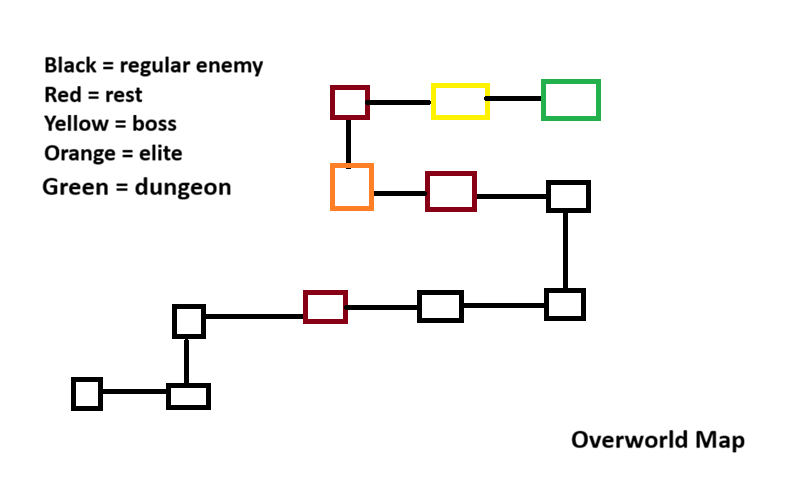
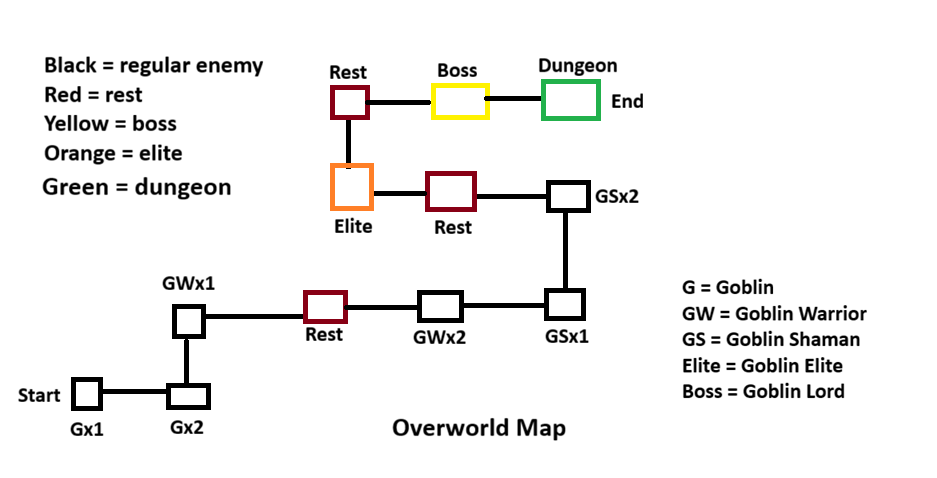
updated docs and res

diff --git a/docs/m10/m10 leveling.md b/docs/m10/m10 leveling.md
@@ -1,0 +1,218 @@
+Yes. I would lock Dungeon Drifters to an **absolute character level cap of 250** and build the XP curve around that.
+
+The reason is literal:
+
+```text
+6 stats × 100 maximum = 600 total stat points
+Level 1 Drifters begin with 60 total stat points
+600 − 60 = 540 Growth Points needed to max every stat
+```
+
+The repository enforces that every Level 1 archetype starts with exactly 60 total permanent stats, and each permanent stat is capped at 100.
+
+At three Growth Points per level:
+
+```text
+Level 250 provides 249 level-ups
+249 × 3 = 747 total Growth Points
+
+747 total
+− 540 for all six stats
+= 207 Growth Points for the complete growth tree
+```
+
+That gives us an exact completionist structure:
+
+```text
+Level 250
+= every stat at 100
++ every authored growth-tree node purchased
+```
+
+The tree for each Drifter should therefore have an exact total purchase cost of **207 Growth Points**. The existing economy already establishes one point for a permanent stat, two for a passive rank, and three for a new move. Augments can use the same one-to-three-point hierarchy according to strength.
+
+# Dungeon Drifters XP formula
+
+Replace the current linear `100 × level` threshold with this Elden Ring-inspired curve:
+
+```text
+ramp = max(0, current_level − 10)
+
+XP required for next level =
+floor(
+    20 × (ramp + 5) × (current_level + 30)²
+    ÷ 961
+)
+```
+
+The `961` normalizes Level 1 exactly because:
+
+```text
+31² = 961
+```
+
+So Level 1 → 2 costs exactly **100 XP**.
+
+This gives us:
+
+* a very gentle opening
+* noticeable acceleration after Level 10
+* strong endgame scaling
+* an extremely expensive completionist back half
+* integer-only deterministic math
+
+The current code already supports carryover and gaining multiple levels from one award, but it presently has no maximum-level enforcement.
+
+## Exact curve milestones
+
+| Current level | XP for next level | Total XP spent to reach level |
+| ------------: | ----------------: | ----------------------------: |
+|             1 |               100 |                             0 |
+|            10 |               166 |                         1,150 |
+|            25 |             1,259 |                        10,035 |
+|            50 |             5,993 |                        89,252 |
+|            75 |            16,061 |                       346,774 |
+|           100 |            33,413 |                       939,335 |
+|           125 |            60,000 |                     2,072,458 |
+|           150 |            97,773 |                     4,000,425 |
+|           175 |           148,683 |                     7,026,312 |
+|           200 |           214,682 |                    11,501,965 |
+|           225 |           297,721 |                    17,828,010 |
+|     249 → 250 |           395,280 |                    26,058,564 |
+
+The absolute total from Level 1 to Level 250 is:
+
+```text
+26,453,844 XP
+```
+
+Like Elden Ring, the back half carries most of the weight:
+
+```text
+Level 1 → 100:
+939,335 XP
+3.6% of the absolute total
+
+Level 150 → 250:
+22,453,419 XP
+84.9% of the absolute total
+
+Level 200 → 250:
+14,951,879 XP
+56.5% of the absolute total
+```
+
+So reaching a healthy endgame build is realistic, while maxing absolutely everything remains a major completionist undertaking.
+
+# Intended progression bands
+
+```text
+Levels 1–10
+Opening campaign and first dungeon entry
+
+Levels 11–50
+Foundation and early build identity
+
+Levels 51–100
+Mature main-game build
+
+Levels 101–150
+Endgame specialization
+
+Levels 151–200
+Postgame and New Game+
+
+Levels 201–250
+Extreme mastery and completionist progression
+```
+
+The expected practical build range can remain far below the absolute cap. Level 250 exists so the player can eventually master everything, not because the main campaign should require it.
+
+# Growth Points by level
+
+| Level | Total Growth Points earned |
+| ----: | -------------------------: |
+|    10 |                         27 |
+|    25 |                         72 |
+|    50 |                        147 |
+|   100 |                        297 |
+|   150 |                        447 |
+|   200 |                        597 |
+|   250 |                        747 |
+
+Each level should continue granting the authored:
+
+```text
++4 maximum HP
++1 maximum Mana
+3 Growth Points
+```
+
+When maximum HP or Mana rises, current HP or Mana should rise by the same delta rather than fully refill. That preserves the amount already missing.
+
+# M10 surface-route XP
+
+For M10, surface-route EXP should become secured immediately after complete encounter victory. The future unsecured-dungeon/extraction loop begins after the dungeon entrance rather than being forced into the surface campaign.
+
+Recommended archetype values:
+
+```text
+Goblin:          40 XP
+Goblin Warrior:  60 XP
+Goblin Shaman:   90 XP
+Goblin Elite:   150 XP
+Goblin Lord:    200 XP
+```
+
+The encounter reward is calculated from its composition but awarded only once after the entire encounter is defeated:
+
+| Encounter                      | Reward | Resulting level state |
+| ------------------------------ | -----: | --------------------- |
+| 1 Goblin                       |     40 | Level 1, 40 / 100     |
+| 2 Goblins                      |     80 | Level 2, 20 / 106     |
+| 1 Goblin Warrior               |     60 | Level 2, 80 / 106     |
+| 2 Goblin Warriors              |    120 | Level 3, 94 / 113     |
+| 1 Goblin Shaman                |     90 | Level 4, 71 / 120     |
+| 2 Goblin Shamans               |    180 | Level 6, 4 / 134      |
+| Goblin Elite + Goblin          |    190 | Level 7, 60 / 142     |
+| Goblin Lord + Goblin + Warrior |    300 | Level 9, 68 / 158     |
+
+Total surface-route reward:
+
+```text
+1,060 XP
+```
+
+The Drifter reaches the dungeon entrance at:
+
+```text
+Level 9
+68 / 158 XP
+24 Growth Points available
+```
+
+That feels substantial without overleveling the character before the first dungeon.
+
+# Cap behavior
+
+At Level 250:
+
+```text
+next threshold = none
+XP cannot increase the level further
+excess XP is discarded
+Growth Points stop being awarded
+level cannot exceed 250
+```
+
+So the full lock I recommend is:
+
+```text
+Absolute level cap: 250
+Growth Points per level: 3
+Total lifetime Growth Points: 747
+Stat-maxing cost: 540
+Full growth-tree budget: 207
+Total XP to cap: 26,453,844
+M10 dungeon-entry target: Level 9
+```

diff --git a/docs/m10/m10 requirements.md b/docs/m10/m10 requirements.md
@@ -1,0 +1,71 @@
+**1. Enemy definitions**
+
+For Goblin Warrior, Goblin Shaman, Goblin Elite, and Goblin Lord:
+
+- HP and Mana
+- Stats
+- Exact moves
+- Capabilities
+- Tier/rank
+- Enemy action policy
+- Whether the boss uses the shared three-enemy composition exactly as documented
+
+**2. Multi-enemy turn rules**
+
+Confirm:
+
+```text
+Player acts
+→ living enemies act in authored order
+→ repeat
+```
+
+Also:
+
+- Who gets initiative?
+- Is one remaining enemy auto-targeted?
+- How are duplicate enemies labeled?
+- Are defeated enemies still visible?
+
+**3. Progression rewards**
+
+Per encounter:
+
+- EXP
+- Gold
+- Level-up timing
+- Whether permanent attribute growth occurs
+- Whether HP/Mana maximum growth immediately affects current values
+- Whether secured-EXP scaling is active
+
+**4. Rest rules**
+
+For each of the three rest nodes:
+
+- Full or partial HP/Mana recovery
+- Gold or other cost
+- Super behavior
+- Prepared Infusion behavior
+- Whether each rest can be used once
+- Whether skipping is allowed
+
+My recommended initial contract is full HP/Mana recovery, no cost, Super and inventory preserved, and each rest node usable once.
+
+**5. Equipment**
+
+- Which item is available during the route
+- Slot and stat bonuses
+- Who can equip it
+- Whether existing signature weapons remain untouched
+- Whether defensive equipment affects defense or only stats
+
+**6. Save/load**
+
+- One fixed save path
+- Safe save boundaries
+- Whether save is manual only
+- Opening-menu Load behavior
+- Invalid-save behavior
+- Whether schema 7 must load or M10 moves directly to schema 8
+
+The route map itself now gives us the authored node order and three rest locations. Once the six areas above are locked, M10 can proceed milestone by milestone without inventing campaign values.